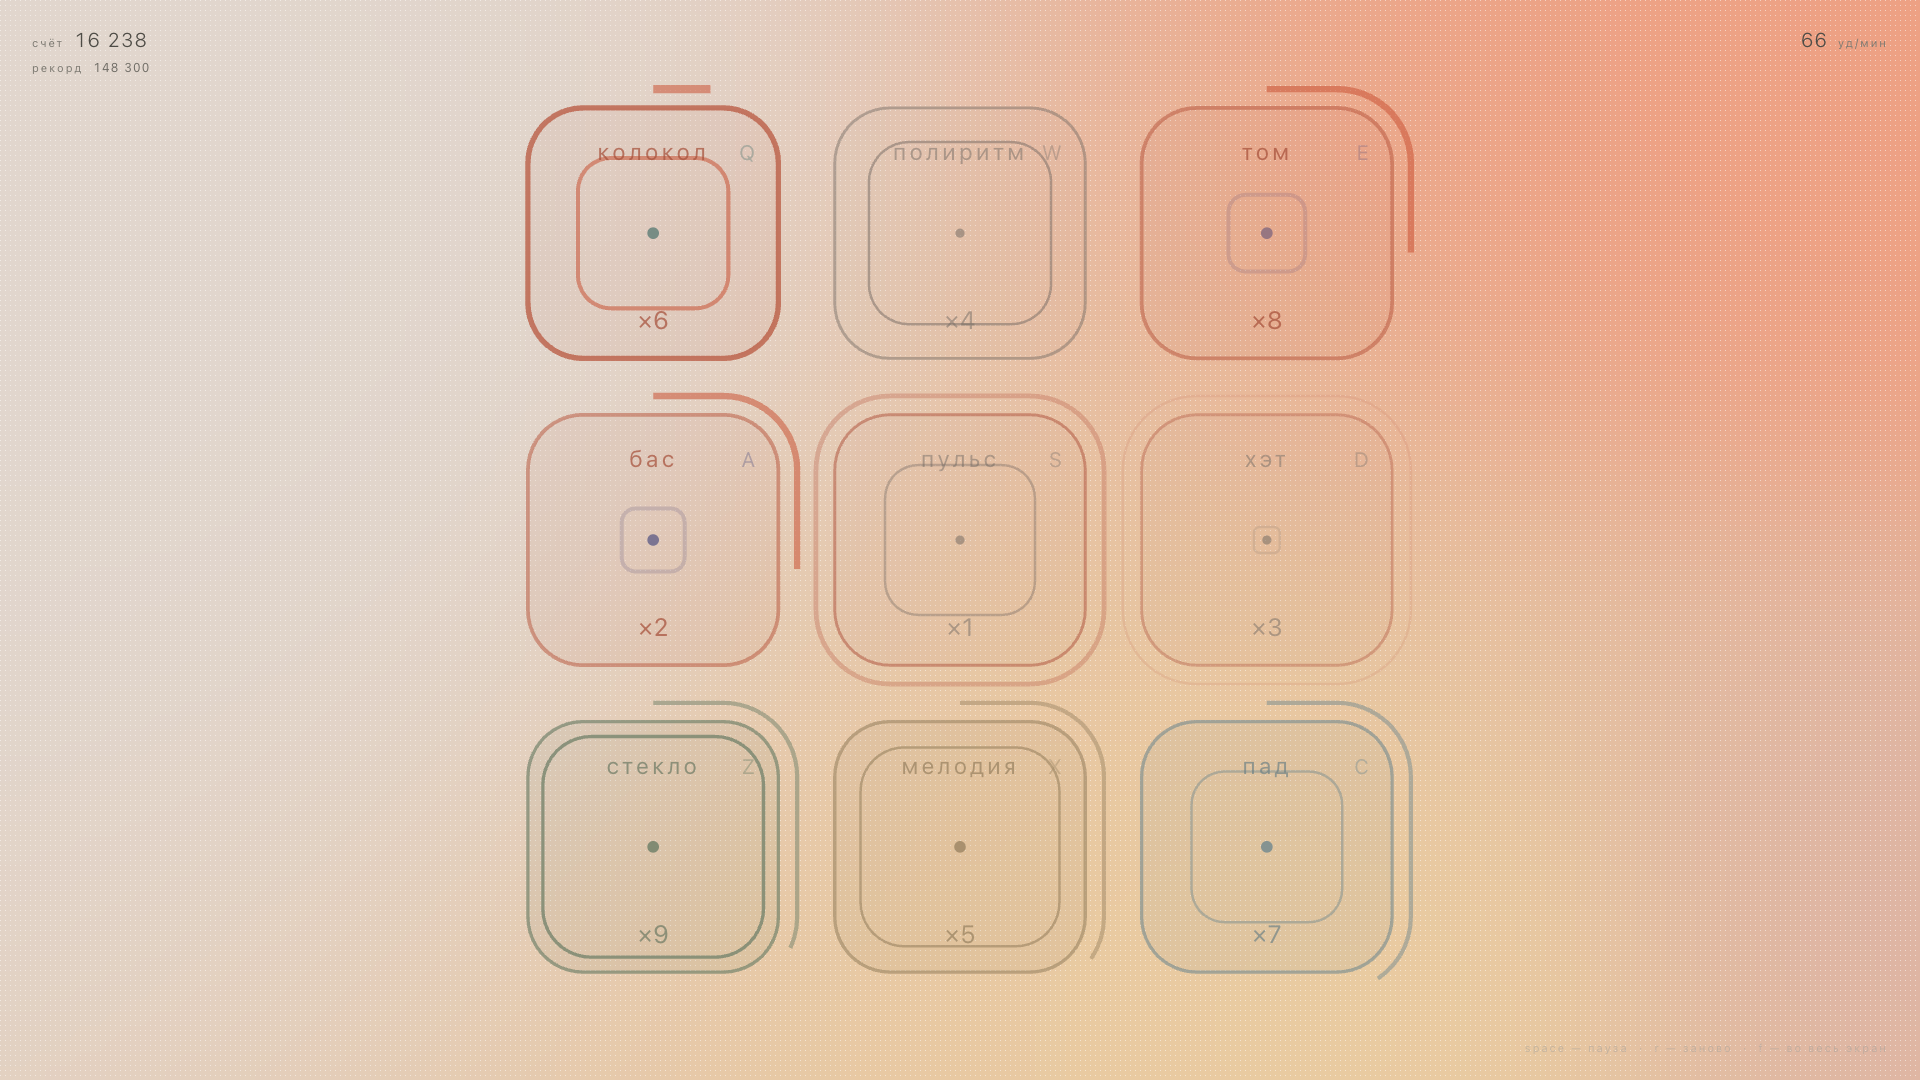
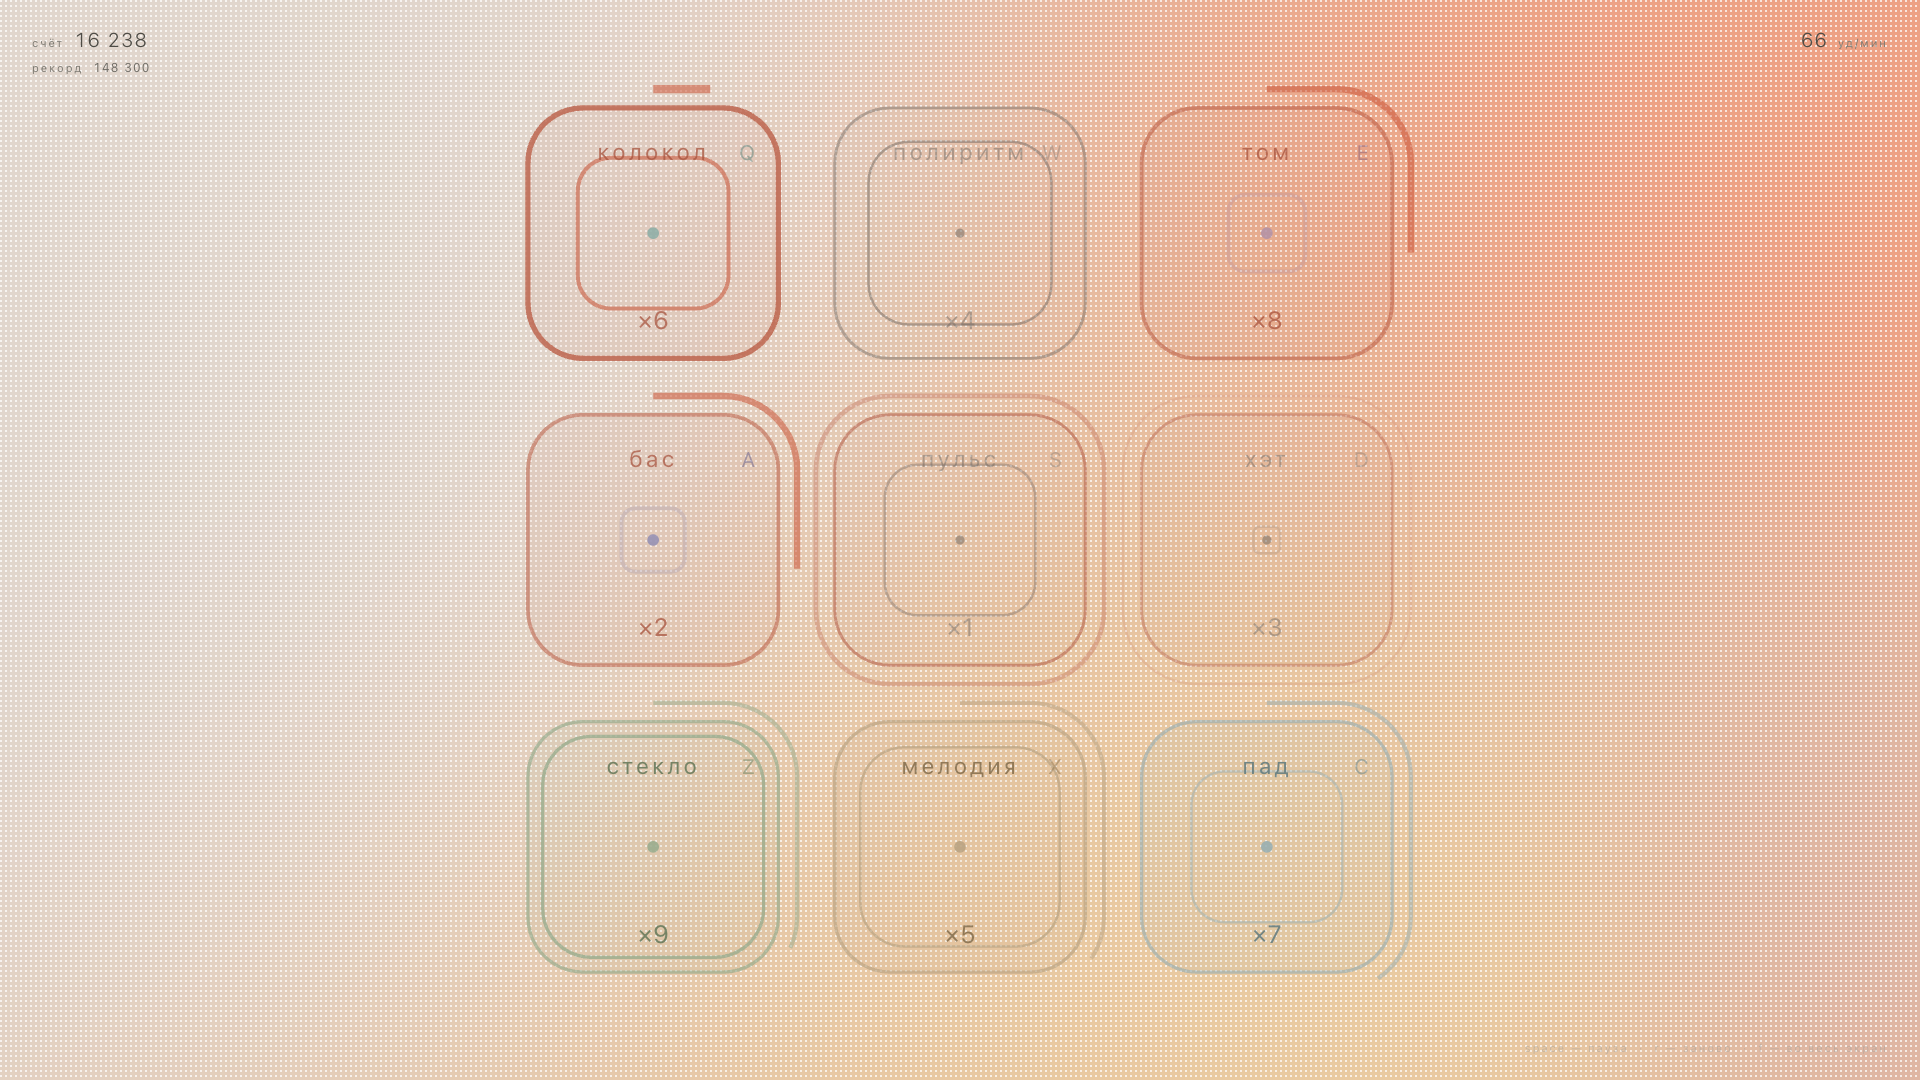
Светлые цвета инструментов, точки крупнее и ярче
Инструменты уведены в светлые тона: светлота 42–55 -> 61–66. Насыщенность
подняла вместе с ней (16–50 -> 26–60), иначе на светлом фоне цвет выцвел бы
до серого и голоса перестали бы различаться.

Точки: размер 1 -> 1.5 CSS-пикселя (покрытие 4 % -> 9 %), прозрачность
0.5 -> 0.72. Замер: точки на 28 единиц светлее фона. Размер округляется до
целых устройственных пикселей — дробная точка размазалась бы сглаживанием.

Следствие, которое пришлось лечить: подписи и цена на плитках берут цвет
инструмента, и после осветления «хэт», «колокол», «стекло» перестали
читаться. Текст теперь берёт тот же тон, но на 22 пункта темнее плитки —
сами плитки остались светлыми.

Витринные материалы пересняты.

Changed region(s): [[0.0, 0.0, 1.0, 1.0]]

diff --git a/game.js b/game.js
@@ -83,12 +83,12 @@
 
   var INSTR = {
     kick: {
-      hue: 222, sat: 24, light: 42,
+      hue: 222, sat: 32, light: 62,
       play: function (t, i, bd) { S.kick(t, 0.85); S.kick(t + bd, 0.5); },
       accent: function (t) { S.kick(t, 0.8); }
     },
     hat: {
-      hue: 200, sat: 16, light: 54,
+      hue: 200, sat: 26, light: 66,
       play: function (t, i, bd) {
         S.hat(t + 0.5 * bd, 0.3);
         S.hat(t + 1.5 * bd, 0.22);
@@ -97,12 +97,12 @@
       accent: function (t) { S.hat(t, 0.3); }
     },
     rim: {
-      hue: 14, sat: 32, light: 55,
+      hue: 14, sat: 44, light: 66,
       play: function (t, i, bd) { S.rim(t, 0.5); S.rim(t + 1.5 * bd, 0.3); },
       accent: function (t) { S.rim(t, 0.45); }
     },
     bass: {
-      hue: 246, sat: 34, light: 47,
+      hue: 246, sat: 44, light: 63,
       seq: [[45, 50], [45, 48], [43, 50], [45, 52]],
       play: function (t, i, bd) {
         var p = this.seq[i % this.seq.length];
@@ -112,7 +112,7 @@
       accent: function (t, bd) { S.bass(t, 45, 0.5, bd); }
     },
     pluck: {
-      hue: 36, sat: 50, light: 51,
+      hue: 36, sat: 60, light: 61,
       ph: [
         [[0, 69], [1.5, 72], [2.5, 76]],
         [[0, 74], [1, 72], [2.5, 69]],
@@ -127,19 +127,19 @@
       accent: function (t) { S.pluck(t, 72, 0.3); }
     },
     bell: {
-      hue: 166, sat: 30, light: 45,
+      hue: 166, sat: 42, light: 61,
       seq: [81, 76, 79, 84],
       play: function (t, i) { S.bell(t, this.seq[i % this.seq.length], 0.22); },
       accent: function (t) { S.bell(t, 81, 0.2); }
     },
     pad: {
-      hue: 190, sat: 22, light: 51,
+      hue: 190, sat: 34, light: 64,
       ch: [[57, 60, 64], [55, 60, 64]],
       play: function (t, i, bd) { S.pad(t, this.ch[i % 2], 0.13, 8 * bd); },
       accent: function (t, bd) { S.pad(t, [57, 60, 64], 0.1, 2 * bd); }
     },
     tom: {
-      hue: 320, sat: 26, light: 48,
+      hue: 320, sat: 38, light: 63,
       play: function (t, i, bd) {
         S.tom(t, 45, 0.4);
         S.tom(t + 3.5 * bd, i % 2 ? 40 : 43, 0.28);
@@ -147,7 +147,7 @@
       accent: function (t) { S.tom(t, 45, 0.36); }
     },
     glass: {
-      hue: 100, sat: 22, light: 46,
+      hue: 100, sat: 34, light: 61,
       ph: [
         [[0, 84], [2.5, 91], [4, 88]],
         [[0, 88], [3, 93], [5.5, 84]],
@@ -946,8 +946,9 @@
      Точки в один пиксель поштучно не нарисовать — при таком шаге их десятки
      тысяч на кадр. Но раз они одного цвета, достаточно замостить экран
      повторяющимся узором: одна заливка вместо десятков тысяч. */
-  var DOT_STEP = 5;    // шаг сетки в CSS-пикселях
-  var DOT_ALPHA = 0.5; // прозрачность сетки
+  var DOT_STEP = 5;     // шаг сетки в CSS-пикселях
+  var DOT_SIZE = 1.5;   // размер точки в CSS-пикселях
+  var DOT_ALPHA = 0.72; // прозрачность сетки
 
   var dotTile = document.createElement('canvas');
   var dotPattern = null, tileStep = 0, tileDot = 0;
@@ -970,7 +971,9 @@
 
     var dpr = st.dpr;
     var W = cv.width, H = cv.height;
-    var dot = Math.max(1, Math.round(dpr));            // один CSS-пиксель
+    // размер округляем до целых устройственных пикселей: дробная точка
+    // размазалась бы сглаживанием и потускнела
+    var dot = Math.max(1, Math.round(DOT_SIZE * dpr));
     var step = Math.max(dot + 1, Math.round(DOT_STEP * dpr));
     ensureDotPattern(step, dot);
 
@@ -1096,10 +1099,12 @@
 
       // подпись сверху, ядро в центре, цена снизу: и то и другое у краёв,
       // где растущий контур ещё почти прозрачен и не спорит с текстом
+      /* Текст берёт тот же тон, но заметно темнее плитки: после осветления
+         инструментов подпись в цвет плитки на светлом фоне не читается. */
       var ink = warning
         ? 'hsla(12,48%,44%,' + (0.72 * a).toFixed(3) + ')'
         : o.alive
-          ? syncedColor(inst, 0.68 * a, -4, satScale)
+          ? syncedColor(inst, 0.82 * a, -22, satScale)
           : 'hsla(28,7%,42%,' + (0.5 * a) + ')';
 
       g.save();
@@ -1115,7 +1120,7 @@
       g.textAlign = 'right';
       g.font = '10px -apple-system, BlinkMacSystemFont, Helvetica Neue, sans-serif';
       g.fillStyle = o.alive
-        ? syncedColor(inst, 0.42 * a, 0, satScale)
+        ? syncedColor(inst, 0.5 * a, -18, satScale)
         : 'hsla(28,7%,45%,' + (0.38 * a) + ')';
       g.fillText(o.keyLabel, x + o.half - 11, y - o.half + 25);
       g.restore();

diff --git a/index.html b/index.html
@@ -4,7 +4,7 @@
 <meta charset="utf-8">
 <meta name="viewport" content="width=device-width, initial-scale=1">
 <title>втакт</title>
-<link rel="stylesheet" href="styles.css?v=29">
+<link rel="stylesheet" href="styles.css?v=31">
 </head>
 <body>
   <canvas id="stage"></canvas>
@@ -78,9 +78,9 @@
   </div>
 
   <!-- ?v= — против кэша GitHub Pages (max-age=600): поднимать при правках -->
-  <script src="store.js?v=29"></script>
-  <script src="i18n.js?v=29"></script>
-  <script src="audio.js?v=29"></script>
-  <script src="game.js?v=29"></script>
+  <script src="store.js?v=31"></script>
+  <script src="i18n.js?v=31"></script>
+  <script src="audio.js?v=31"></script>
+  <script src="game.js?v=31"></script>
 </body>
 </html>
